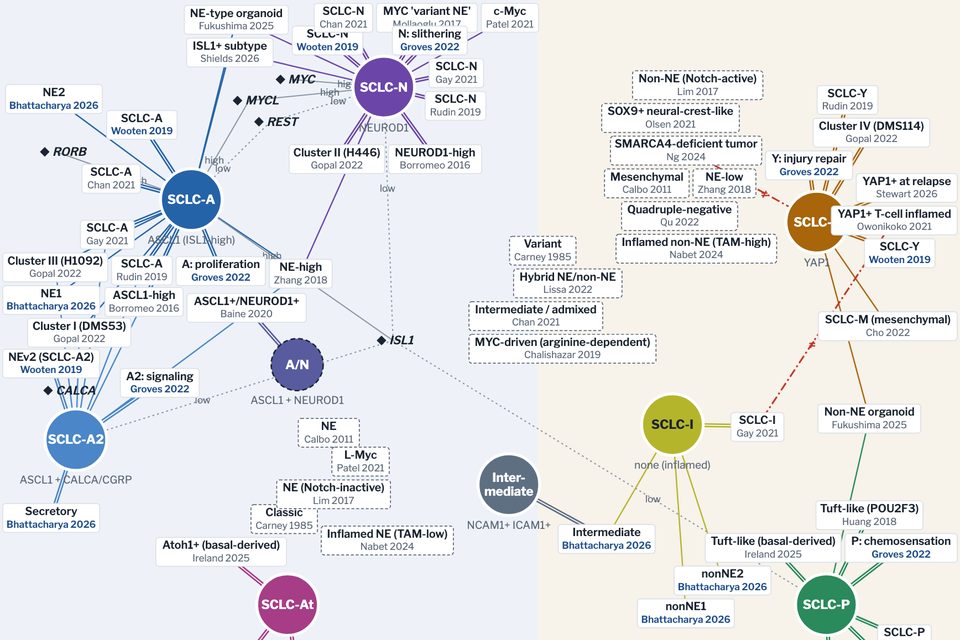
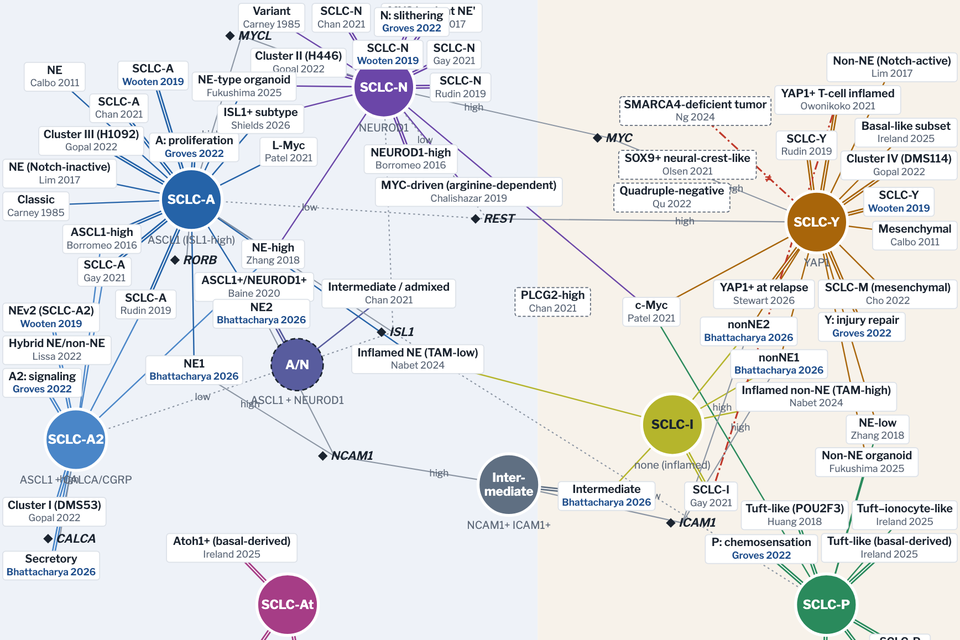
SCLC Subtype Map: links per curator review; NCAM1/ICAM1; new boxes
Applied Sarah's calls on each link, using full texts where available:
- Linked: Carney classic ~A and variant ~N; Calbo NE ~A and mesenchymal ~Y;
  Lim NE ~A and non-NE ~Y; Zhang NE-low ~Y ~P; Chalishazar MYC-driven ~N;
  Chan intermediate/admixed ~A/N (the paper's own link); Patel L-Myc ~A,
  c-Myc ~N ~Y ~P; Lissa hybrid ~A2 (paper calls it NEv2-like); Nabet
  inflamed NE ~A ~I and non-NE ~I; Ireland basal-like ~Y; Bhattacharya
  nonNE1/2 ~Y ~I; Gopal cluster I =A2, III =A.
- Left unlinked: PLCG2-high, Olsen SOX9+, Qu NAPY-negative, Ng SMARCA4.
- Markers: MYC high in Y and REST high in Y restored; NCAM1 and ICAM1 added,
  linking the Intermediate state to Bhattacharya's NE and non-NE states.
- New boxes: Ireland 2025 basal-like and tuft-ionocyte-like, Chan PLCG2-high.
- Data tags: Lim human tumors = bulk; Groves 2022 includes single-cell.
Notes say "curator's call" where the link is not stated by the paper.

diff --git a/apps/sclc-subtype-map/data.js b/apps/sclc-subtype-map/data.js
@@ -48,15 +48,15 @@ window.SCLC_MAP = {
       short: "Carney 1985", year: 1985, title: "Establishment and identification of small cell lung cancer cell lines having classic and variant features",
       journal: "Cancer Res", doi: null, pmid: "2985257", data: ["cl"], basis: "Biochemical NE markers + morphology (50 lines)",
       labels: [
-        { name: "Classic", maps: [], zone: "ne", note: "35 of 50 lines; express all four NE biomarkers (L-dopa decarboxylase, bombesin-like immunoreactivity, NSE, CK-BB). Predates TF subtypes; the paper does not measure ASCL1 or NEUROD1, so it is not linked to a state." },
-        { name: "Variant", maps: [], zone: "mid", note: "15 of 50 lines; lack L-dopa decarboxylase and bombesin-like immunoreactivity but keep NSE and CK-BB. Not linked to a state: later papers use 'variant' for both NEUROD1-high (Mollaoglu 2017) and NE-low (Zhang 2018) SCLC." }
+        { name: "Classic", maps: [["A", "partial"]], note: "35 of 50 lines; express all four NE biomarkers (L-dopa decarboxylase, bombesin-like immunoreactivity, NSE, CK-BB). Linked to SCLC-A on the basis of the models used (curator's call; the abstract does not name TFs)." },
+        { name: "Variant", maps: [["N", "partial"]], note: "15 of 50 lines; lack L-dopa decarboxylase and bombesin-like immunoreactivity but keep NSE and CK-BB. Linked to SCLC-N because Mollaoglu 2017 uses 'variant' for NEUROD1-high, MYC-driven SCLC (curator's call); Zhang 2018 also uses it for NE-low SCLC." }
       ] },
     { id: "calbo", authors: ["Joaquim Calbo", "Erwin van Montfort", "Natalie Proost", "Ellen van Drunen", "H Berna Beverloo", "Ralph Meuwissen", "Anton Berns"],
       short: "Calbo 2011", year: 2011, title: "A functional role for tumor cell heterogeneity in a mouse model of small cell lung cancer",
       journal: "Cancer Cell", doi: "10.1016/j.ccr.2010.12.021", data: ["mt"], basis: "NE vs. mesenchymal marker profiles",
       labels: [
-        { name: "NE", maps: [], zone: "ne", note: "Mouse tumor cells with a neuroendocrine marker profile. Not linked to a state: TFs were not measured." },
-        { name: "Mesenchymal", maps: [], zone: "nonne", note: "Cells with a mesenchymal marker profile, sharing genomic aberrations with the NE cells; they gave NE cells metastatic capacity when co-engrafted. Not linked to a state: TFs were not measured." }
+        { name: "NE", maps: [["A", "partial"]], note: "Mouse tumor cells with a neuroendocrine marker profile. Linked to SCLC-A on the basis of the models used (curator's call; the abstract does not name TFs)." },
+        { name: "Mesenchymal", maps: [["Y", "partial"]], note: "Cells with a mesenchymal marker profile, sharing genomic aberrations with the NE cells; they gave NE cells metastatic capacity when co-engrafted. Linked partially to SCLC-Y (curator's call); TFs were not measured." }
       ] },
     { id: "borromeo", authors: ["Mark D Borromeo", "Trisha K Savage", "Rahul K Kollipara", "Min He", "Alexander Augustyn", "Jihan K Osborne", "Luc Girard", "John D Minna", "Adi F Gazdar", "Melanie H Cobb", "Jane E Johnson"],
       short: "Borromeo 2016", year: 2016, title: "ASCL1 and NEUROD1 reveal heterogeneity in pulmonary neuroendocrine tumors and regulate distinct genetic programs",
@@ -73,17 +73,17 @@ window.SCLC_MAP = {
       ] },
     { id: "lim", authors: ["Jing Shan Lim", "Alvaro Ibaseta", "Marcus M Fischer", "Belinda Cancilla", "Gilbert O'Young", "Sandra Cristea", "Vincent C Luca", "Dian Yang", "Nadine S Jahchan", "Cecile Hamard", "Martine Antoine", "Marie Wislez", "Christina Kong", "Jennifer Cain", "Yu-Wang Liu", "Ann M Kapoun", "K Christopher Garcia", "Timothy Hoey", "Christopher L Murriel", "Julien Sage"],
       short: "Lim 2017", year: 2017, title: "Intratumoural heterogeneity generated by Notch signalling promotes small-cell lung cancer",
-      journal: "Nature", doi: "10.1038/nature22323", data: ["mt", "ht"], basis: "Notch pathway activity",
+      journal: "Nature", doi: "10.1038/nature22323", data: ["mt", "htb"], basis: "Notch pathway activity",
       labels: [
-        { name: "NE (Notch-inactive)", maps: [], zone: "ne", note: "Neuroendocrine tumor cells. Not linked to a TF-defined state in this paper." },
-        { name: "Non-NE (Notch-active)", maps: [], zone: "nonne", note: "Notch activation switches 10–50% of tumor cells to a non-NE fate, partly via Rest. These cells are slow-growing, relatively chemoresistant, and support NE cells. Not linked to a TF-defined state in this paper." }
+        { name: "NE (Notch-inactive)", maps: [["A", "partial"]], note: "Neuroendocrine tumor cells. Linked to SCLC-A on the basis of the models used (curator's call; the abstract does not name TFs)." },
+        { name: "Non-NE (Notch-active)", maps: [["Y", "partial"]], note: "Notch activation switches 10–50% of tumor cells to a non-NE fate, partly via Rest. These cells are slow-growing, relatively chemoresistant, and support NE cells. Linked partially to SCLC-Y (curator's call)." }
       ] },
     { id: "zhang", authors: ["Wei Zhang", "Luc Girard", "Yu-An Zhang", "Tomohiro Haruki", "Mahboubeh Papari-Zareei", "Victor Stastny", "Hans K Ghayee", "Karel Pacak", "Trudy G Oliver", "John D Minna", "Adi F Gazdar"],
       short: "Zhang 2018", year: 2018, title: "SCLC tumors and preclinical models display heterogeneity of neuroendocrine phenotypes",
       journal: "Transl Lung Cancer Res", doi: "10.21037/tlcr.2018.02.02", data: ["htb", "cl", "mt"], basis: "50-gene NE score",
       labels: [
         { name: "NE-high", maps: [["A", "partial"], ["A2", "partial"], ["N", "partial"]], note: "Express ASCL1 or NEUROD1 with NKX2-1 and lack REST; grow as floating aggregates. Linked to the ASCL1+ and NEUROD1+ states because the paper defines it by those TFs." },
-        { name: "NE-low", maps: [], zone: "nonne", note: "16% of tumors and 10% of cell lines. Lost most NE markers, ASCL1 and NEUROD1, express REST, underwent EMT, with Notch, Hippo, TGFβ and MYC active. Not linked to a state: the paper does not assign these to YAP1, POU2F3 or inflamed subtypes." }
+        { name: "NE-low", maps: [["Y", "partial"], ["P", "partial"]], note: "16% of tumors and 10% of cell lines. Lost most NE markers, ASCL1 and NEUROD1, express REST, underwent EMT, with Notch, Hippo, TGFβ and MYC active. Linked partially to SCLC-Y and SCLC-P: later papers describe the NE-low/variant group as YAP1- or POU2F3-driven (Patel 2021, Olsen 2021)." }
       ] },
     { id: "huang", authors: ["Yu-Han Huang", "Olaf Klingbeil", "Xue-Yan He", "Xiaoli S Wu", "Gayatri Arun", "Bin Lu", "Tim D D Somerville", "Joseph P Milazzo", "John E Wilkinson", "Osama E Demerdash", "David L Spector", "Mikala Egeblad", "Junwei Shi", "Christopher R Vakoc"],
       short: "Huang 2018", year: 2018, title: "POU2F3 is a master regulator of a tuft cell-like variant of small cell lung cancer",
@@ -113,7 +113,7 @@ window.SCLC_MAP = {
       short: "Chalishazar 2019", year: 2019, title: "MYC-driven SCLC is metabolically distinct and vulnerable to arginine depletion",
       journal: "Clin Cancer Res", doi: "10.1158/1078-0432.ccr-18-4140", data: ["mt", "cl", "pdx"], basis: "Metabolomics of MYC vs. MYCL tumors",
       labels: [
-        { name: "MYC-driven (arginine-dependent)", maps: [], zone: "mid", note: "MYC-driven SCLC depends on arginine-regulated pathways; arginine depletion (ADI-PEG 20) suppresses these tumors. Not linked to a state: the paper compares MYC- vs. MYCL-driven tumors, not TF subtypes." }
+        { name: "MYC-driven (arginine-dependent)", maps: [["N", "partial"]], note: "MYC-driven SCLC depends on arginine-regulated pathways; arginine depletion (ADI-PEG 20) suppresses these tumors. Linked to SCLC-N: MYC-driven mouse SCLC is the NEUROD1-high variant (Mollaoglu 2017; curator's call)." }
       ] },
     { id: "baine2020", authors: ["Marina K Baine", "Min-Shu Hsieh", "W Victoria Lai", "Jacklynn V Egger", "Achim A Jungbluth", "Yahya Daneshbod", "Amanda Beras", "Rowanne Spencer", "Jessica Lopardo", "Francis Bodd", "Joseph Montecalvo", "Jennifer L Sauter", "Jason C Chang", "Darren J Buonocore", "William D Travis", "Triparna Sen", "John T Poirier", "Charles M Rudin", "Natasha Rekhtman"],
       short: "Baine 2020", year: 2020, title: "SCLC subtypes defined by ASCL1, NEUROD1, POU2F3, and YAP1: a comprehensive immunohistochemical and histopathologic characterization",
@@ -149,14 +149,15 @@ window.SCLC_MAP = {
         { name: "SCLC-A", maps: [["A", "same"]] },
         { name: "SCLC-N", maps: [["N", "same"]] },
         { name: "SCLC-P", maps: [["P", "same"]] },
-        { name: "Intermediate / admixed", maps: [], zone: "mid", note: "Tumor diversity was driven by canonical, intermediate and admixed subtypes; the abstract does not say which subtypes are admixed. Also found a PLCG2-high, pro-metastatic population that recurs across subtypes." }
+        { name: "Intermediate / admixed", maps: [["AN", "partial"]], note: "Intermediate cancer cells along the SCLC-A to SCLC-N spectrum, which the paper ties to ASCL1+/NEUROD1+ cells (Baine 2020); also tumors of admixed subtype." },
+        { name: "PLCG2-high", maps: [], zone: "mid", note: "Stem-like, pro-metastatic population that recurs across subtypes and predicts worse overall survival; associated with a profibrotic, immunosuppressive macrophage population. Cross-cutting, so not linked to one state." }
       ] },
     { id: "patel", authors: ["Ayushi S Patel", "Seungyeul Yoo", "Ranran Kong", "Takashi Sato", "Abhilasha Sinha", "Sarah Karam", "Li Bao", "Maya Fridrikh", "Katsura Emoto", "German Nudelman", "Charles A Powell", "Mary Beth Beasley", "Jun Zhu", "Hideo Watanabe"],
       short: "Patel 2021", year: 2021, title: "Prototypical oncogene family Myc defines unappreciated distinct lineage states of SCLC",
       journal: "Sci Adv", doi: "10.1126/sciadv.abc2578", data: ["cl"], basis: "Transcriptomic and epigenomic profiling",
       labels: [
-        { name: "L-Myc", maps: [], zone: "ne", note: "L-Myc imparts neuronal programs, but replacing c-Myc with L-Myc was not enough to induce ASCL1-SCLC, so it is not linked to SCLC-A." },
-        { name: "c-Myc", maps: [["N", "partial"]], note: "c-Myc imparts non-NE programs and induces an ASCL1 → NEUROD1 transition." }
+        { name: "L-Myc", maps: [["A", "partial"]], note: "L-Myc imparts neuronal programs. L-Myc-classified cell lines expressed only ASCL1, and L-Myc was enriched in the ASCL1 subtype in cell lines and tumors; replacing c-Myc with L-Myc alone did not induce ASCL1-SCLC." },
+        { name: "c-Myc", maps: [["N", "partial"], ["Y", "partial"], ["P", "partial"]], note: "c-Myc imparts non-NE programs and induces an ASCL1 → NEUROD1 transition. c-Myc was higher in the NEUROD1, POU2F3 and YAP1 subtypes in cell lines and tumors, and anticorrelated with ASCL1 (r = −0.53)." }
       ] },
     { id: "olsen", authors: ["Rachelle R Olsen", "Abbie S Ireland", "David W Kastner", "Sarah M Groves", "Kyle B Spainhower", "Karine Pozo", "Demetra P Kelenis", "Christopher P Whitney", "Matthew R Guthrie", "Sarah J Wait", "Danny Soltero", "Benjamin L Witt", "Vito Quaranta", "Jane E Johnson", "Trudy G Oliver"],
       short: "Olsen 2021", year: 2021, title: "ASCL1 represses a SOX9+ neural crest stem-like state in small cell lung cancer",
@@ -166,7 +167,7 @@ window.SCLC_MAP = {
       ] },
     { id: "groves", authors: ["Sarah M Groves", "Geena V Ildefonso", "Caitlin O McAtee", "Patricia M M Ozawa", "Abbie S Ireland", "Philip E Stauffer", "Perry T Wasdin", "Xiaomeng Huang", "Yi Qiao", "Jing Shan Lim", "Jackie Bader", "Qi Liu", "Alan J Simmons", "Ken S Lau", "Wade T Iams", "Doug P Hardin", "Edward B Saff", "William R Holmes", "Darren R Tyson", "Christine M Lovly", "Jeffrey C Rathmell", "Gabor Marth", "Julien Sage", "Trudy G Oliver", "Alissa M Weaver", "Vito Quaranta"],
       short: "Groves 2022", year: 2022, title: "Archetype tasks link intratumoral heterogeneity to plasticity and cancer hallmarks in SCLC",
-      journal: "Cell Syst", doi: "10.1016/j.cels.2022.07.006", data: ["cl", "htb"], basis: "5-vertex archetype polytope with tasks", ours: true,
+      journal: "Cell Syst", doi: "10.1016/j.cels.2022.07.006", data: ["cl", "htb", "hts"], basis: "5-vertex archetype polytope with tasks", ours: true,
       labels: [
         { name: "A: proliferation", maps: [["A", "same"]], note: "ISL1 is highest at this archetype." },
         { name: "A2: signaling", maps: [["A2", "same"]], note: "Neuro- and immuno-modulatory signaling; highest CALCA; nearby cell lines most sensitive to MAPK inhibitors. Confirms A2 in human data." },
@@ -178,16 +179,16 @@ window.SCLC_MAP = {
       short: "Gopal 2022", year: 2022, title: "Multivalent state transitions shape the intratumoral composition of small cell lung carcinoma",
       journal: "Sci Adv", doi: "10.1126/sciadv.abp8674", data: ["cl", "pdx"], basis: "k-means on 53 cell lines; live-cell ASCL1, NEUROD1 and YAP1 reporters showed bidirectional state transitions",
       labels: [
-        { name: "Cluster I (DMS53)", data: ["cl"], maps: [["A", "partial"], ["A2", "partial"]], note: "ASCL1-high cluster. Its representative line, DMS53, is an A2 archetype line in Groves 2022, but the paper does not separate A from A2." },
+        { name: "Cluster I (DMS53)", data: ["cl"], maps: [["A2", "same"]], note: "ASCL1-high cluster. Linked to SCLC-A2 because its representative line, DMS53, is an A2 archetype line in Groves 2022 (curator's call)." },
         { name: "Cluster II (H446)", data: ["cl"], maps: [["N", "same"]], note: "NEUROD1-high." },
-        { name: "Cluster III (H1092)", data: ["cl"], maps: [["A", "partial"], ["A2", "partial"]], note: "Second ASCL1-high cluster; grows in suspension. The paper does not separate A from A2." },
+        { name: "Cluster III (H1092)", data: ["cl"], maps: [["A", "same"]], note: "Second ASCL1-high cluster; grows in suspension. Linked to SCLC-A as the ASCL1 cluster that is not A2 (curator's call)." },
         { name: "Cluster IV (DMS114)", data: ["cl"], maps: [["Y", "same"]], note: "YAP1+, adherent, mesenchymal. No separate P cluster." }
       ] },
     { id: "lissa", authors: ["Delphine Lissa", "Nobuyuki Takahashi", "Parth Desai", "Irena Manukyan", "Christopher W Schultz", "Vinodh Rajapakse", "Moises J Velez", "Deborah Mulford", "Nitin Roper", "Samantha Nichols", "Rasa Vilimas", "Linda Sciuto", "Yuanbin Chen", "Udayan Guha", "Arun Rajan", "Devon Atkinson", "Rajaa El Meskini", "Zoe Weaver Ohler", "Anish Thomas"],
       short: "Lissa 2022", year: 2022, title: "Heterogeneity of neuroendocrine transcriptional states in metastatic SCLC and patient-derived models",
       journal: "Nat Commun", doi: "10.1038/s41467-022-29517-9", data: ["htb", "pdx"], basis: "Transcriptome, exome and histology of metastatic SCLC",
       labels: [
-        { name: "Hybrid NE/non-NE", data: ["htb"], maps: [], zone: "mid", note: "A clinical subtype with hybrid NE and non-NE phenotypes, chemotherapy-resistant with very poor outcomes. The paper presents it as its own subtype, so it is not linked to another state." },
+        { name: "Hybrid NE/non-NE", data: ["htb"], maps: [["A2", "partial"]], note: "A clinical subtype with hybrid NE and non-NE phenotypes (11 of 72 tumors, mostly liver metastases), chemotherapy-resistant with very poor outcomes. Enriched for xenobiotic-metabolism and drug-transporter gene sets; the paper calls these tumors NEv2-like, reminiscent of SCLC-A2." },
         { name: "ATOH1+", data: ["htb"], maps: [["At", "same"]], note: "ATOH1 subtype also seen in metastatic biopsies." }
       ] },
     { id: "qu", authors: ["Song Qu", "Patricia Fetsch", "Anish Thomas", "Yves Pommier", "David S Schrump", "Markku M Miettinen", "Haobin Chen"],
@@ -200,14 +201,14 @@ window.SCLC_MAP = {
       short: "Cho 2022", year: 2022, title: "Transcriptional profiling reveals mesenchymal subtypes of SCLC with activation of EMT and worse clinical outcomes",
       journal: "Cancers", doi: "10.3390/cancers14225600", data: ["htb", "cl", "hti"], basis: "Gene expression profiling",
       labels: [
-        { name: "SCLC-M (mesenchymal)", id: "cho-M", maps: [["Y", "partial"]], note: "High EMT and YAP1 activity, low anti-tumor immunity, worse outcomes than SCLC-I; 3.2–7.4% of primary tumors. Separates a mesenchymal non-NE group from SCLC-I." }
+        { name: "SCLC-M (mesenchymal)", id: "cho-M", maps: [["Y", "partial"]], note: "High EMT and YAP1 activity, low anti-tumor immunity, worse outcomes than SCLC-I; 3.2–7.4% of primary tumors. Separates a mesenchymal non-NE group from SCLC-I; linked partially to SCLC-Y through its YAP1 activity." }
       ] },
     { id: "nabet", authors: ["Barzin Y Nabet", "Habib Hamidi", "Myung Chang Lee", "Romain Banchereau", "Stefanie Morris", "Leah Adler", "Velimir Gayevskiy", "Ahmed M Elhossiny", "Minu K Srivastava", "Namrata S Patil", "Kiandra A Smith", "Rajiv Jesudason", "Caleb Chan", "Patrick S Chang", "Matthew Fernandez", "Sandra Rost", "Lisa M McGinnis", "Hartmut Koeppen", "Carl M Gay", "John D Minna", "John V Heymach", "Joseph M Chan", "Charles M Rudin", "Lauren A Byers", "Stephen V Liu", "Martin Reck", "David S Shames"],
       short: "Nabet 2024", year: 2024, title: "Immune heterogeneity in small-cell lung cancer and vulnerability to immune checkpoint blockade",
       journal: "Cancer Cell", doi: "10.1016/j.ccell.2024.01.010", data: ["htb"], basis: "NMF on 271 IMpower133 tumors",
       labels: [
-        { name: "Inflamed NE (TAM-low)", maps: [], zone: "ne", note: "NE tumors with high T-effector and low macrophage signals lived longest with atezolizumab added to chemotherapy." },
-        { name: "Inflamed non-NE (TAM-high)", maps: [], zone: "nonne", note: "Non-NE tumors with high T-effector and high macrophage signals benefited less. The paper's four subsets broadly match A, N, P and I, but it does not say which subsets these two immune-infiltrated groups are, so they are not linked." }
+        { name: "Inflamed NE (TAM-low)", maps: [["A", "partial"], ["I", "partial"]], note: "NE tumors with high T-effector and low macrophage signals lived longest with atezolizumab added to chemotherapy. Linked partially to SCLC-A (NE) and SCLC-I (immune-infiltrated) (curator's call); the paper does not say which of its four subsets this group is." },
+        { name: "Inflamed non-NE (TAM-high)", maps: [["I", "partial"]], note: "Non-NE tumors with high T-effector and high macrophage signals benefited less from atezolizumab. Linked partially to SCLC-I (immune-infiltrated) (curator's call); the paper does not say which of its four subsets this group is." }
       ] },
     { id: "ng", authors: ["Jin Ng", "Ling Cai", "Luc Girard", "Owen W J Prall", "Neeha Rajan", "Christine Khoo", "Ahida Batrouney", "David J Byrne", "Danielle K Boyd", "Ariena J Kersbergen", "Michael Christie", "John D Minna", "Marian L Burr", "Kate D Sutherland"],
       short: "Ng 2024", year: 2024, title: "Molecular and pathologic characterization of YAP1-expressing SCLC cell lines leads to reclassification as SMARCA4-deficient malignancies",
@@ -217,10 +218,12 @@ window.SCLC_MAP = {
       ] },
     { id: "ireland2025", authors: ["Abbie S Ireland", "Daniel A Xie", "Sarah B Hawgood", "Margaret W Barbier", "Lisa Y Zuo", "Benjamin E Hanna", "Scarlett Lucas-Randolph", "Darren R Tyson", "Benjamin L Witt", "Ramaswamy Govindan", "Afshin Dowlati", "Justin C Moser", "Anish Thomas", "Sonam Puri", "Charles M Rudin", "Joseph M Chan", "Andrew Elliott", "Trudy G Oliver"],
       short: "Ireland 2025", year: 2025, title: "Basal cell of origin resolves neuroendocrine–tuft lineage plasticity in cancer",
-      journal: "Nature", doi: "10.1038/s41586-025-09503-z", data: ["mts", "htb"], basis: "Single-cell clonal analysis in mouse models",
+      journal: "Nature", doi: "10.1038/s41586-025-09503-z", data: ["mts", "htb"], basis: "Single-cell clonal analysis in mouse models; transcriptomics of 944 human SCLCs",
       labels: [
         { name: "Atoh1+ (basal-derived)", data: ["mts"], maps: [["At", "same"]], note: "Unexpected Atoh1+ state in basal-cell-derived mouse SCLC." },
-        { name: "Tuft-like (basal-derived)", data: ["mts"], maps: [["P", "same"]], note: "Basal cells, not NE cells, generate NE-tuft-like tumors; high MYC, PTEN loss and ASCL1 suppression promote tuft-like tumors." }
+        { name: "Tuft-like (basal-derived)", data: ["mts"], maps: [["P", "same"]], note: "Basal cells, not NE cells, generate NE-tuft-like tumors; high MYC, PTEN loss and ASCL1 suppression promote tuft-like tumors." },
+        { name: "Basal-like subset", data: ["htb"], maps: [["Y", "partial"]], note: "Human tumors (944 transcriptomes) with a normal basal cell signature. The paper says basal-like phenotypes are minor but present across subtypes, and that YAP1+ tumors may be enriched for them Linked partially to SCLC-Y (curator's call)." },
+        { name: "Tuft–ionocyte-like", data: ["htb"], maps: [["P", "partial"]], note: "A human tumor state resembling normal tuft–ionocyte progenitors, which are marked by POU2F3 with FOXI1 or ASCL3; linked partially to SCLC-P through POU2F3." }
       ] },
     { id: "fukushima", authors: ["Takahiro Fukushima", "Kazuhiro Togasaki", "Junko Hamamoto", "Katsura Emoto", "Toshiki Ebisudani", "Akifumi Mitsuishi", "Kai Sugihara", "Taro Shinozaki", "Masahiko Okada", "Ayaka Saito", "Hatsuyo Takaoka", "Fumimaro Ito", "Lisa Shigematsu", "Yuki Ohta", "Sirirat Takahashi", "Mami Matano", "Yutaka Kurebayashi", "Keiko Ohgino", "Takashi Sato", "Ichiro Kawada", "Keisuke Asakura", "Tomoyuki Hishida", "Hisao Asamura", "Shinnosuke Ikemura", "Hideki Terai", "Kenzo Soejima", "Mayumi Oda", "Masayuki Fujii", "Koichi Fukunaga", "Hiroyuki Yasuda", "Toshiro Sato"],
       short: "Fukushima 2025", year: 2025, title: "An organoid library unveils subtype-specific IGF-1 dependency via a YAP–AP1 axis in human SCLC",
@@ -245,12 +248,12 @@ window.SCLC_MAP = {
       short: "Bhattacharya 2026", year: 2026, title: "Transcriptional networks underlying tumour plasticity in small-cell lung cancer",
       journal: "bioRxiv", doi: "10.64898/2026.09.26.754526", data: ["mts", "org"], basis: "Archetype analysis of scRNA-seq + scATAC-seq; BoBa-T TF network", ours: true,
       labels: [
-        { name: "NE1", data: ["mts"], maps: [["A", "partial"]], note: "Ascl1-high NE archetype (linked to SCLC-A by Ascl1); NE1 and NE2 differ in the pro-metastatic TF Nfib." },
-        { name: "NE2", data: ["mts"], maps: [["A", "partial"]], note: "Ascl1-high NE archetype; NE1 and NE2 differ in Nfib." },
+        { name: "NE1", id: "bhatt-ne1", data: ["mts"], maps: [["A", "partial"]], note: "NCAM1+ (NE marker). Ascl1-high NE archetype (linked to SCLC-A by Ascl1); NE1 and NE2 differ in the pro-metastatic TF Nfib." },
+        { name: "NE2", id: "bhatt-ne2", data: ["mts"], maps: [["A", "partial"]], note: "NCAM1+ (NE marker). Ascl1-high NE archetype; NE1 and NE2 differ in Nfib." },
         { name: "Secretory", data: ["mts"], maps: [["A2", "same"]], note: "Closely resembles the human SCLC-A2 archetype." },
         { name: "Intermediate", data: ["mts", "org"], id: "bhatt-int", maps: [["Int", "same"], ["I", "partial"]], note: "NCAM1+ICAM1+ low-identity, cycling state between NE and non-NE, with high MHC and antigen-presentation genes and strong SCLC-I signature activity. Sorted double-positive cells regenerated NE, non-NE and Intermediate cells in organoids; NE and non-NE cells did not convert directly. RORB loss pushes NE cells into this state." },
-        { name: "nonNE1", id: "bhatt-nonne1", data: ["mts"], maps: [["I", "partial"]], note: "Notch- and Hippo-active non-NE state; the human SCLC-I signature is active here. Not linked to SCLC-Y: the paper does not assign it." },
-        { name: "nonNE2", data: ["mts"], maps: [["I", "partial"]], note: "Second Notch- and Hippo-active non-NE state; the human SCLC-I signature is active here. Not linked to SCLC-Y: the paper does not assign it." }
+        { name: "nonNE1", id: "bhatt-nonne1", data: ["mts"], maps: [["Y", "partial"], ["I", "partial"]], note: "ICAM1+ (non-NE marker). Notch- and Hippo-active non-NE state; the human SCLC-I signature is active here. Partial link to SCLC-Y (curator's call)." },
+        { name: "nonNE2", id: "bhatt-nonne2", data: ["mts"], maps: [["Y", "partial"], ["I", "partial"]], note: "ICAM1+ (non-NE marker). Second Notch- and Hippo-active non-NE state; the human SCLC-I signature is active here. Partial link to SCLC-Y (curator's call)." }
       ] }
   ],
 
@@ -265,8 +268,10 @@ window.SCLC_MAP = {
       note: "Highest at the SCLC-A archetype and lower at A2, as shown by Wooten 2019 and in the Groves 2022 archetype signatures (A 7.5, A2 3.4, N 2.6, P 1.4, Y 0.1). In tumors, ISL1 correlates with ASCL1 and NEUROD1 and negatively with POU2F3 (Shields 2026)." },
     { gene: "CALCA", edges: [["A2", "high"]], note: "CGRP; highest at the SCLC-A2 archetype (Groves 2022)." },
     { gene: "MYCL", edges: [["A", "high"], ["N", "high"]], note: "Drives ISL1 (Shields 2026); L-Myc imparts neuronal programs (Patel 2021) and L-MYC protein is associated with ASCL1 and NEUROD1 tumors (Qu 2022)." },
-    { gene: "MYC", edges: [["N", "high"]], note: "Drives the ASCL1 → NEUROD1 → YAP1 shift in mouse tumors (Ireland 2020) and the NEUROD1 'variant' state (Mollaoglu 2017); associated with non-ASCL1/NEUROD1 tumors (Qu 2022)." },
-    { gene: "REST", edges: [["A", "low"], ["N", "low"]], note: "NE gene repressor: absent from NE-high SCLC (which expresses ASCL1 or NEUROD1) and expressed in NE-low SCLC (Zhang 2018); mediates part of the Notch-driven NE → non-NE switch (Lim 2017)." },
+    { gene: "MYC", edges: [["N", "high"], ["Y", "high"]], note: "Drives the ASCL1 → NEUROD1 → YAP1 shift in mouse tumors (Ireland 2020) and the NEUROD1 'variant' state (Mollaoglu 2017); associated with non-ASCL1/NEUROD1 tumors (Qu 2022)." },
+    { gene: "REST", edges: [["A", "low"], ["N", "low"], ["Y", "high"]], note: "NE gene repressor: absent from NE-high SCLC (which expresses ASCL1 or NEUROD1) and expressed in NE-low SCLC (Zhang 2018); mediates part of the Notch-driven NE → non-NE switch (Lim 2017)." },
+    { gene: "NCAM1", edges: [["Int", "high"], ["bhatt-ne1", "high"], ["bhatt-ne2", "high"]], note: "CD56; NE cell-surface marker. In RPR2 mouse tumors its RNA is restricted to NE cells, and Intermediate cells co-express it with ICAM1 (Bhattacharya 2026)." },
+    { gene: "ICAM1", edges: [["Int", "high"], ["bhatt-nonne1", "high"], ["bhatt-nonne2", "high"]], note: "Non-NE cell-surface marker. In RPR2 mouse tumors its RNA is restricted to non-NE cells, and Intermediate cells co-express it with NCAM1 (Bhattacharya 2026)." },
     { gene: "RORB", edges: [["A", "high"]], note: "Promotes the NE state and represses the non-NE state; its loss pushes NE cells into the Intermediate state (mouse). In human tumors RORB expression was confined to SCLC-A (Bhattacharya 2026)." },
   ],
 

diff --git a/apps/sclc-subtype-map/index.html b/apps/sclc-subtype-map/index.html
@@ -200,7 +200,7 @@ table.rosetta { border-collapse: collapse; font-size: 13px; min-width: 900px; ba
 <footer class="foot">Curated by Sarah Groves from her SCLC literature notes; mappings are interpretations, not claims made by each paper. Checked against PubMed abstracts and full texts, November 2026. Corrections welcome: <a href="mailto:smgroves@virginia.edu">smgroves@virginia.edu</a>.</footer>
 
 <script src="https://cdnjs.cloudflare.com/ajax/libs/d3/7.9.0/d3.min.js"></script>
-<script src="data.js?v=20261108c"></script>
+<script src="data.js?v=20261108e"></script>
 <script>
 (function () {
   const D = window.SCLC_MAP;
@@ -594,7 +594,7 @@ table.rosetta { border-collapse: collapse; font-size: 13px; min-width: 900px; ba
         ${authorsBlock(sc.authors)}`;
     } else {
       const m = n.data;
-      const e = m.edges.map(([to, lvl]) => `<li>${lvl} in ${stateBtn(to)}</li>`).join("");
+      const e = m.edges.map(([to, lvl]) => `<li>${lvl} in ${stateById[to] ? stateBtn(to) : nodeBtn(to, `${nodeById[to].data.name} (${nodeById[to].scheme.short})`)}</li>`).join("");
       const re = new RegExp("\\b" + m.gene + "\\b");
       const rel = nodes.filter(x => x.type === "label" && re.test(`${x.data.name} ${x.data.note || ""}`))
         .map(x => `<li>${nodeBtn(x.id, x.data.name)} <span class="cite">${esc(x.scheme.short)}</span></li>`).join("");
